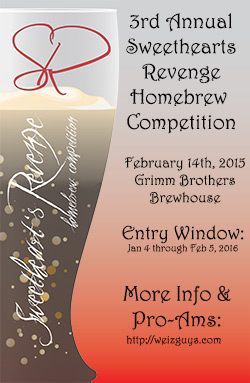
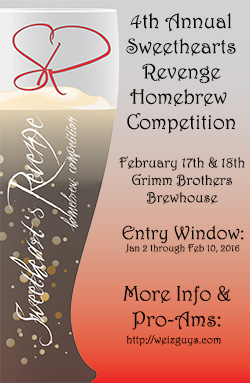
Update poster image and add right column item.

Changed region(s): [[0.476, 0.4021, 0.98, 0.5457], [0.504, 0.0287, 0.924, 0.0862], [0.504, 0.6319, 0.98, 0.6606]]

diff --git a/_layouts/default.html b/_layouts/default.html
@@ -34,6 +34,12 @@
   </div>
   <div class="medium-4 columns sidecol">
     <div class="item">
+      <h2>Sweethearts Revenge Homebrew Competition</h2>
+      <a href="/revenge">
+        <img src="/images/sweethearts-poster.jpg" alt="Sweetheart's Poster" />
+      </a>
+    </div>
+    <div class="item">
         <h2>Connect</h2>
         <a class="twitter-timeline" data-height="500" href="https://twitter.com/WeizGuys">Tweets by WeizGuys</a> <script async src="//platform.twitter.com/widgets.js" charset="utf-8"></script>
         
